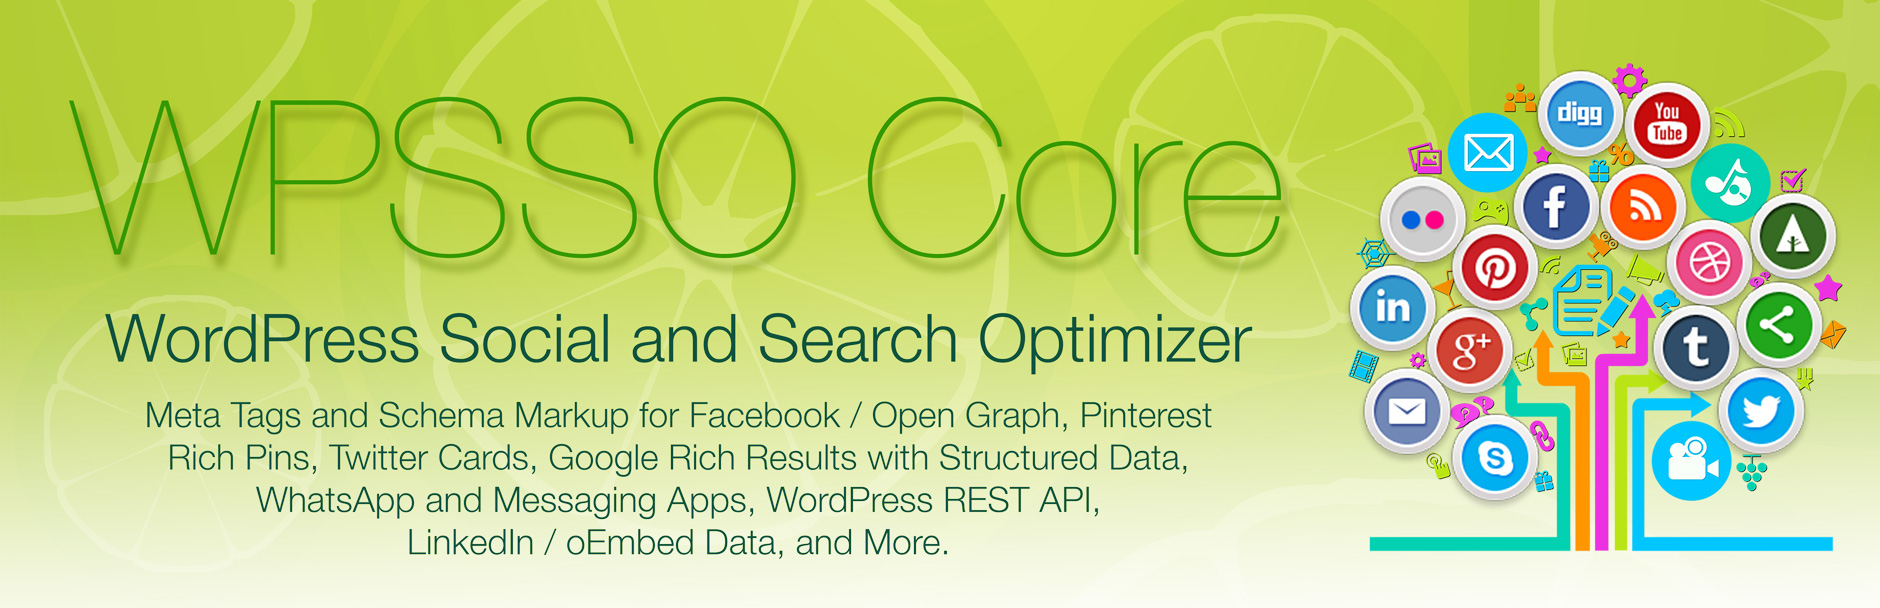
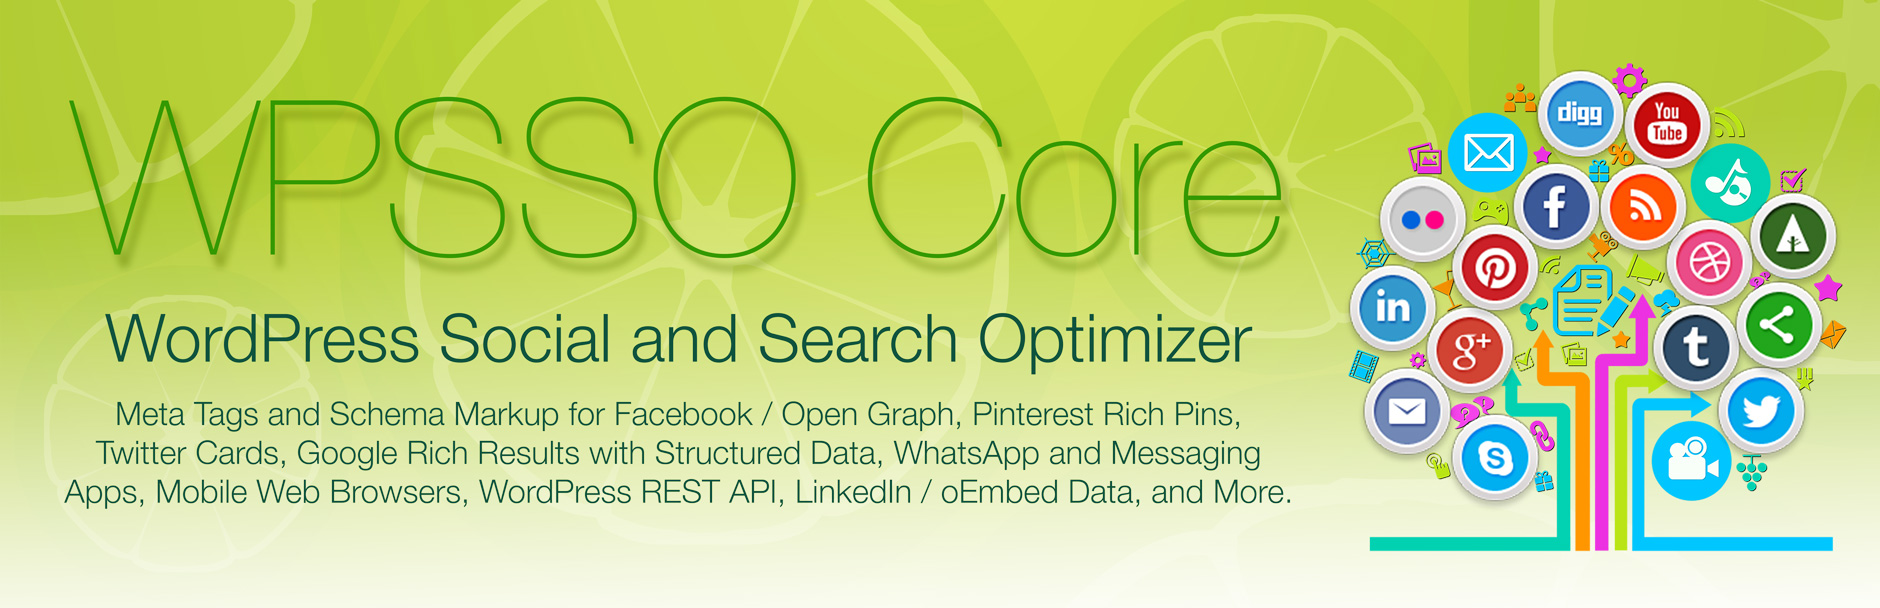
non-essential support files (documentation and assets)

Changed region(s): [[0.0309, 0.6562, 0.6787, 0.8438], [0.216, 0.875, 0.4936, 0.9375]]

diff --git a/index.html b/index.html
@@ -46,7 +46,7 @@
 
 <p><strong>Make sure your content looks great on all social and search sites - no matter how your URLs are crawled, shared, re-shared, posted, or embedded:</strong></p>
 
-<p>WPSSO creates meta tags and Schema markup for Facebook / Open Graph, Pinterest Rich Pins, Twitter Cards, Google's Knowledge Graph and Rich Results (aka Rich Snippets, Structured Data), WhatsApp and Messaging Apps, WordPress REST API, Mobile Web Browsers, LinkedIn / oEmbed data and more &mdash; including complete markup for image SEO, video SEO, extensive e-Commerce product markup (for WooCommerce and others), mobile store apps, author profile / authorship, co-authors, publisher information, local business markup, aggregate ratings, reviews, recipe information, event details, and much, much more &mdash; all from your existing WordPress content, supported plugin data, and service API data.</p>
+<p>WPSSO creates meta tags and Schema markup for <em>Facebook / Open Graph, Pinterest Rich Pins, Twitter Cards, Google's Knowledge Graph and Rich Results (aka Rich Snippets, Structured Data), WhatsApp and Messaging Apps, Mobile Web Browsers, WordPress REST API, LinkedIn / oEmbed data and more</em> &mdash; including complete markup for image SEO, video SEO, extensive e-Commerce product markup (for WooCommerce and others), mobile store apps, author profile / authorship, co-authors, publisher information, local business markup, aggregate ratings, reviews, recipe information, event details, and much, much more &mdash; all from your existing WordPress content, supported plugin data, and service API data.</p>
 
 <p>There's no need to manually re-enter descriptions, titles, product information, re-select images / videos, etc. like other meta tag and Schema markup plugins &mdash; WPSSO reads all your existing post, page, image, video, e-commerce product, recipe, rating, review, event, and SEO content automatically.</p>
 
